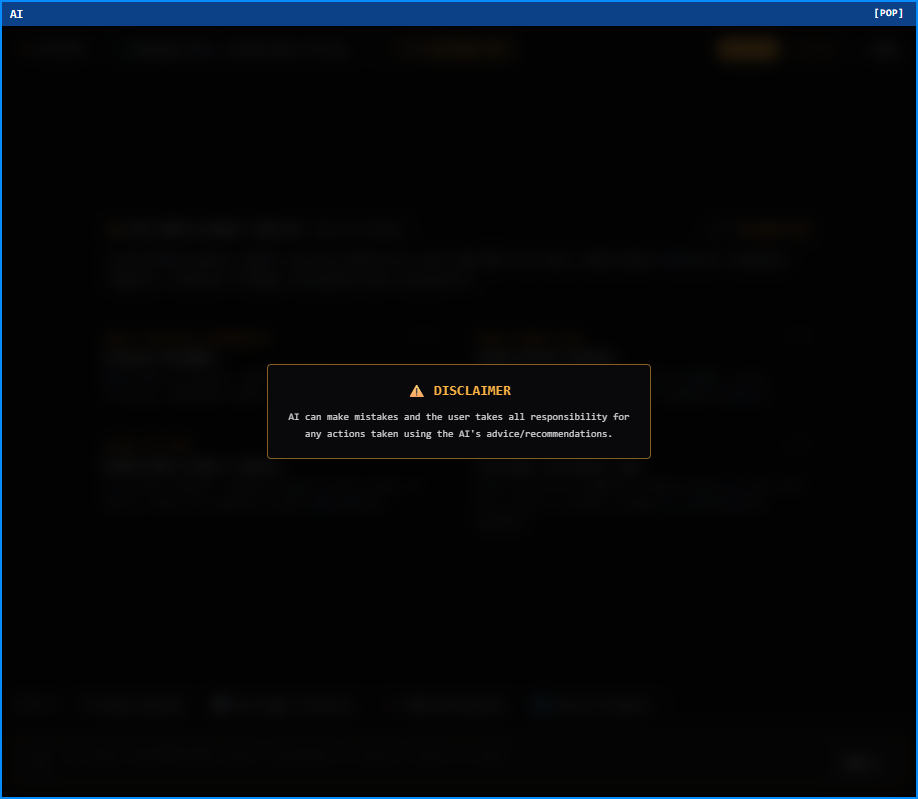
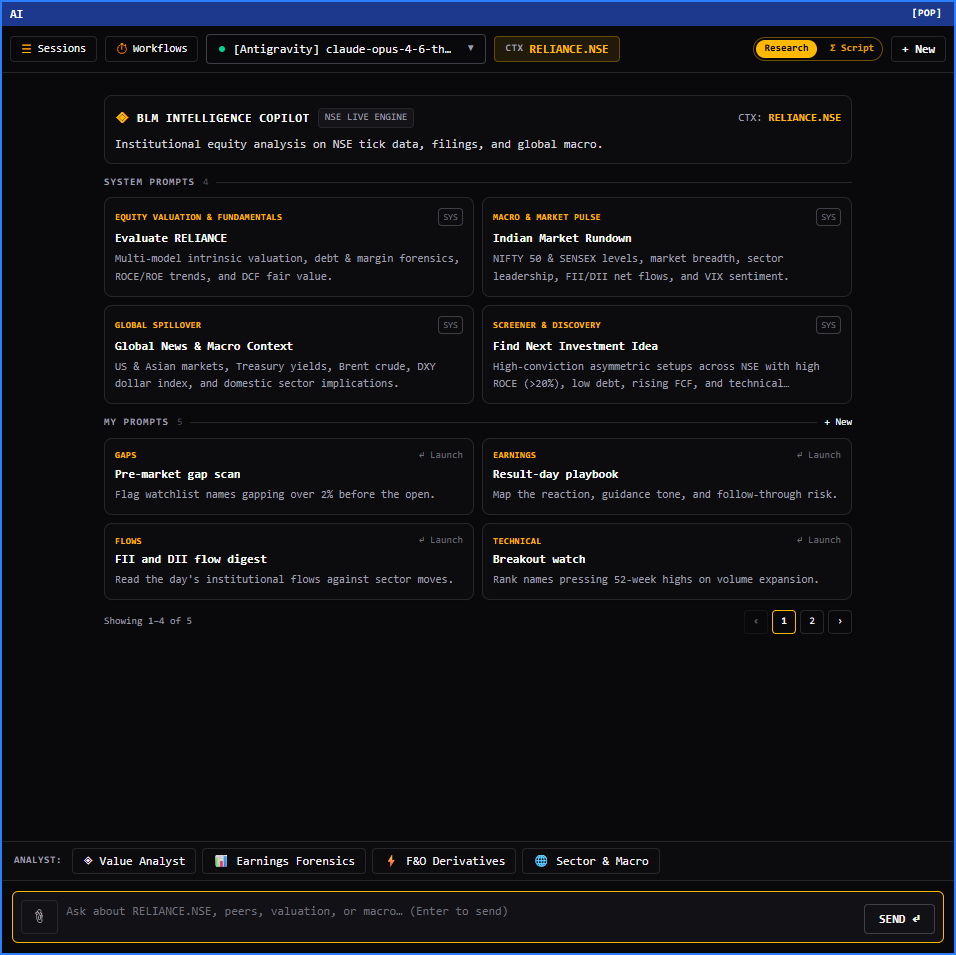
ai: fix launch screen layout and docs screenshot capture
- Stop the empty chat state from auto-scrolling to the bottom, which
  clipped the hero card on the launch screen.
- Compress the launch screen so the hero, four system prompts, four
  saved prompts, and the pagination footer fit a standard widget height.
- Keep the prompt composer tile out of the grid once saved prompts exist.
- Add data-testids for the AI capture, wait for the disclaimer overlay to
  clear, and seed saved prompts so the pagination footer renders.
- Recapture public/docs/widgets/AI.png.

diff --git a/src/components/widgets/AiChatStarterViews.tsx b/src/components/widgets/AiChatStarterViews.tsx
@@ -69,10 +69,13 @@ export function EmptyChatState({
   const endItem = Math.min((promptsPage + 1) * 4, promptsTotal);
 
   return (
-    <div className="flex-1 flex flex-col items-center justify-center p-2 max-w-3xl mx-auto w-full my-auto @3xl:p-4">
+    <div
+      className="flex-1 flex flex-col items-center justify-start p-1.5 max-w-3xl mx-auto w-full @3xl:p-2.5"
+      data-testid="ai-launch-screen"
+    >
       {/* Compact Hero Card */}
-      <div className="w-full bg-[#0c0c0f] border border-[#27272a] rounded-lg p-3 shadow-xl">
-        <div className="mb-2 flex flex-wrap items-center justify-between gap-2">
+      <div className="w-full bg-[#0c0c0f] border border-[#27272a] rounded-lg p-2.5 shadow-lg">
+        <div className="mb-1.5 flex flex-wrap items-center justify-between gap-2">
           <div className="flex min-w-0 items-center gap-2">
             <span
               className={cn(
@@ -93,10 +96,10 @@ export function EmptyChatState({
             CTX: <span className="text-terminal-amber font-bold">{symbol ? `${symbol}.${exchange}` : 'NIFTY.NSE'}</span>
           </div>
         </div>
-        <p className="text-xs text-zinc-300 leading-relaxed font-mono">
+        <p className="text-xs text-zinc-300 leading-snug font-mono">
           {sessionMode === 'script'
-            ? 'Generate, optimize, and backtest custom technical indicators and chart overlays. Accept generated scripts to instantly mount them onto your chart panels.'
-            : 'Institutional-grade equity analysis powered by real-time NSE tick data, multi-model intrinsic valuation engines, corporate filings, and global macro spillovers.'}
+            ? 'Generate, optimize, and backtest indicators, then mount them on your charts.'
+            : 'Institutional equity analysis on NSE tick data, filings, and global macro.'}
         </p>
         {Boolean(armedWorkflows) && (
           <p className="text-[10px] font-mono text-zinc-500 mt-2">
@@ -114,7 +117,7 @@ export function EmptyChatState({
         )}
       </div>
 
-      <div className="flex flex-col gap-4 w-full mt-4">
+      <div className="flex flex-col gap-3 w-full mt-3">
         {/* SYSTEM PROMPTS section */}
         <AiStarterSection label="SYSTEM PROMPTS" count={4}>
           {systemPrompts.map((p, idx) => (
@@ -147,17 +150,19 @@ export function EmptyChatState({
               </button>
             }
           >
-            <div className="col-span-full">
-              <AiPromptComposer
-                open={composerOpen}
-                disabled={isStreaming}
-                onOpenChange={setComposerOpen}
-                onSubmit={(description) => {
-                  onCreatePrompt(description);
-                  setComposerOpen(false);
-                }}
-              />
-            </div>
+            {(composerOpen || userPrompts.length === 0) && (
+              <div className="col-span-full">
+                <AiPromptComposer
+                  open={composerOpen}
+                  disabled={isStreaming}
+                  onOpenChange={setComposerOpen}
+                  onSubmit={(description) => {
+                    onCreatePrompt(description);
+                    setComposerOpen(false);
+                  }}
+                />
+              </div>
+            )}
             {editingPrompt && (
               <AiPromptEditPanel
                 key={editingPrompt.id}
@@ -194,8 +199,8 @@ export function EmptyChatState({
           </AiStarterSection>
 
           {promptsTotal > 4 && (
-            <div className="flex items-center justify-between pt-1 w-full">
-              <span className="text-[10px] font-mono text-zinc-500">
+            <div className="flex items-center justify-between pt-0.5 w-full">
+              <span className="text-[10px] font-mono text-zinc-400">
                 Showing {startItem}–{endItem} of {promptsTotal}
               </span>
               <div className="flex items-center gap-1">

diff --git a/src/components/widgets/AiWidget.tsx b/src/components/widgets/AiWidget.tsx
@@ -401,6 +401,11 @@ export function AiWidget() {
   );
 
   useEffect(() => {
+    if (messages.length === 0) {
+      const list = messagesEndRef.current?.parentElement;
+      if (list) list.scrollTop = 0;
+      return;
+    }
     messagesEndRef.current?.scrollIntoView({ behavior: 'smooth' });
   }, [messages]);
 
@@ -415,7 +420,10 @@ export function AiWidget() {
     <div className="h-full w-full flex overflow-hidden font-mono text-xs bg-[#09090b] text-[#f4f4f5] relative select-none">
       {/* Disclaimer Modal */}
       {showDisclaimer && (
-        <div className="absolute inset-0 z-50 flex items-center justify-center bg-black/80 backdrop-blur-sm p-4">
+        <div
+          className="absolute inset-0 z-50 flex items-center justify-center bg-black/80 backdrop-blur-sm p-4"
+          data-testid="ai-disclaimer"
+        >
           <div className="border border-terminal-amber/50 bg-[#09090b] p-4 text-center text-terminal-amber animate-pulse max-w-sm shadow-2xl rounded">
             <div className="font-bold mb-2 uppercase text-sm">⚠ Disclaimer</div>
             <div className="text-[10px] leading-relaxed text-zinc-300">

diff --git a/src/components/widgets/AiStarterSection.tsx b/src/components/widgets/AiStarterSection.tsx
@@ -16,7 +16,7 @@ export function AiStarterSection({
   children,
 }: AiStarterSectionProps) {
   return (
-    <section className="w-full flex flex-col gap-2.5">
+    <section className="w-full flex flex-col gap-2">
       <div className="flex items-center gap-2">
         <span className="text-[10px] font-mono font-bold uppercase tracking-widest text-zinc-400">
           {label}
@@ -29,7 +29,7 @@ export function AiStarterSection({
         <div className="flex-1 h-px bg-[#27272a]" />
         {action}
       </div>
-      <div className="grid grid-cols-1 @md:grid-cols-2 gap-2.5">
+      <div className="grid grid-cols-1 @md:grid-cols-2 gap-2">
         {children}
       </div>
     </section>

diff --git a/src/components/widgets/AiStarterCard.tsx b/src/components/widgets/AiStarterCard.tsx
@@ -29,7 +29,7 @@ export function AiStarterCard({
   onDuplicate,
 }: AiStarterCardProps) {
   return (
-    <div className="group relative flex flex-col p-3 rounded-lg bg-[#0c0c0f] border border-[#27272a] hover:border-amber-400/60 hover:bg-[#121217] transition-all shadow-md">
+    <div className="group relative flex flex-col p-2.5 rounded-lg bg-[#0c0c0f] border border-[#27272a] hover:border-amber-400/60 hover:bg-[#121217] transition-all shadow-md">
       <button
         type="button"
         onClick={onLaunch}

diff --git a/src/components/widgets/AiToolbar.tsx b/src/components/widgets/AiToolbar.tsx
@@ -184,6 +184,7 @@ export function AiToolbar({
         {/* New Chat Button */}
         <button
           onClick={onNewChat}
+          data-testid="ai-new-chat"
           className="px-2.5 py-1 rounded bg-[#121216] border border-[#27272a] hover:border-amber-400 hover:text-terminal-amber text-zinc-200 text-xs font-mono font-semibold transition-colors"
           title="Create new scratch session"
         >

diff --git a/public/docs/widgets/README.md b/public/docs/widgets/README.md
@@ -14,3 +14,6 @@ configured, so its DOCS page is text only.
 
 POS needs `$env:BLM_SCREENSHOT_SEED_POS="1"` to seed three paper trades for the capture.
 The script deletes those trades after the screenshot.
+
+AI needs `$env:BLM_SCREENSHOT_SEED_PROMPTS="1"` to seed five saved prompts so the
+MY PROMPTS grid and its pagination footer render. The script deletes them afterwards.
